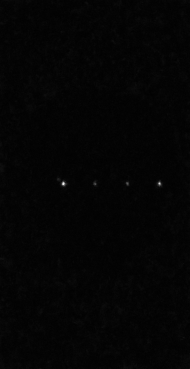
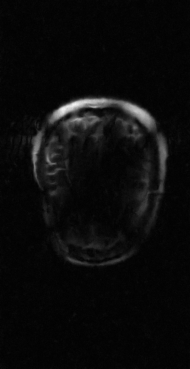
try fixing kspace error

diff --git a/my_CDLNet/mri_utils.py b/my_CDLNet/mri_utils.py
@@ -15,8 +15,14 @@ def dft_matrix(N):
     W = torch.complex(torch.zeros_like(W), -2*torch.Tensor([math.pi])*W/N)
     return torch.exp(W)
 
-def mri_awgn(x, acceleration_map, smaps, noise_std):
-    x_coils = smaps[:, :]* x[None, :, :]
+def mri_awgn(x, acceleration_map, smaps, noise_std, kspace=False):
+    if kspace is False:
+        # Takes in a noise free ground truth, not kspace
+        x_coils = smaps[:, :]* x[None, :, :]
+    if kspace is True:
+        # Assume we take in a fully sampled kspace 
+        y = ifftc(x)
+        x_coils = smaps[:, :]* y[None, :, :]
     if not isinstance(noise_std, (list, tuple)):
         sigma = noise_std
     elif isinstance(noise_std, (list, tuple)): # uniform sampling of sigma
@@ -25,6 +31,7 @@ def mri_awgn(x, acceleration_map, smaps, noise_std):
     x_coils_noisy = x_coils + sigma*torch.randn_like(x_coils)
     y_coils = fftc(x_coils)
     y_mask = y_coils * acceleration_map[None]
+    # Always return masked kspace
     return y_mask, sigma
 
 def mri_encoding(x, acceleration_map, smaps):

diff --git a/my_CDLNet/diff_testbench.py b/my_CDLNet/diff_testbench.py
@@ -167,17 +167,17 @@ def main():
     # noisy_kspace = kspace_masked + noise_level*torch.randn_like(kspace_masked)
     # Add noise in multicoil image space
     noise_level = 0.05
-    noisy_kspace, _ = mri_awgn(kspace, mask, espirit_smaps, noise_level)
+    noisy_kspace, _ = mri_awgn(kspace, mask, espirit_smaps, noise_level, kspace=True)
     e2e_recon, _ = lpdsnet_e2e(noisy_kspace, noise_level*255., mask = mask[None], smaps = espirit_smaps[None], mri = True)
 
     # Init ImMAP class
     immap = ImMAP(net)
    
     # Generate brain mask 
-    modes = [1, 2, 2.5, 4]
+    modes = [2, 2.5, 4]
     immap_outs = []
     for mode in modes:
-        immap_outs.append(eval_immap(immap, noisy_kspace, espirit_smaps, noise_level, mask, brain_mask, mode, gnd_truth, net_immap2p5, e2e_recon, save=True)) 
+        immap_outs.append(eval_immap(immap, noisy_kspace, smaps, noise_level, mask, brain_mask, mode, gnd_truth, net_immap2p5, e2e_recon, save=True)) 
 
     breakpoint()
 
